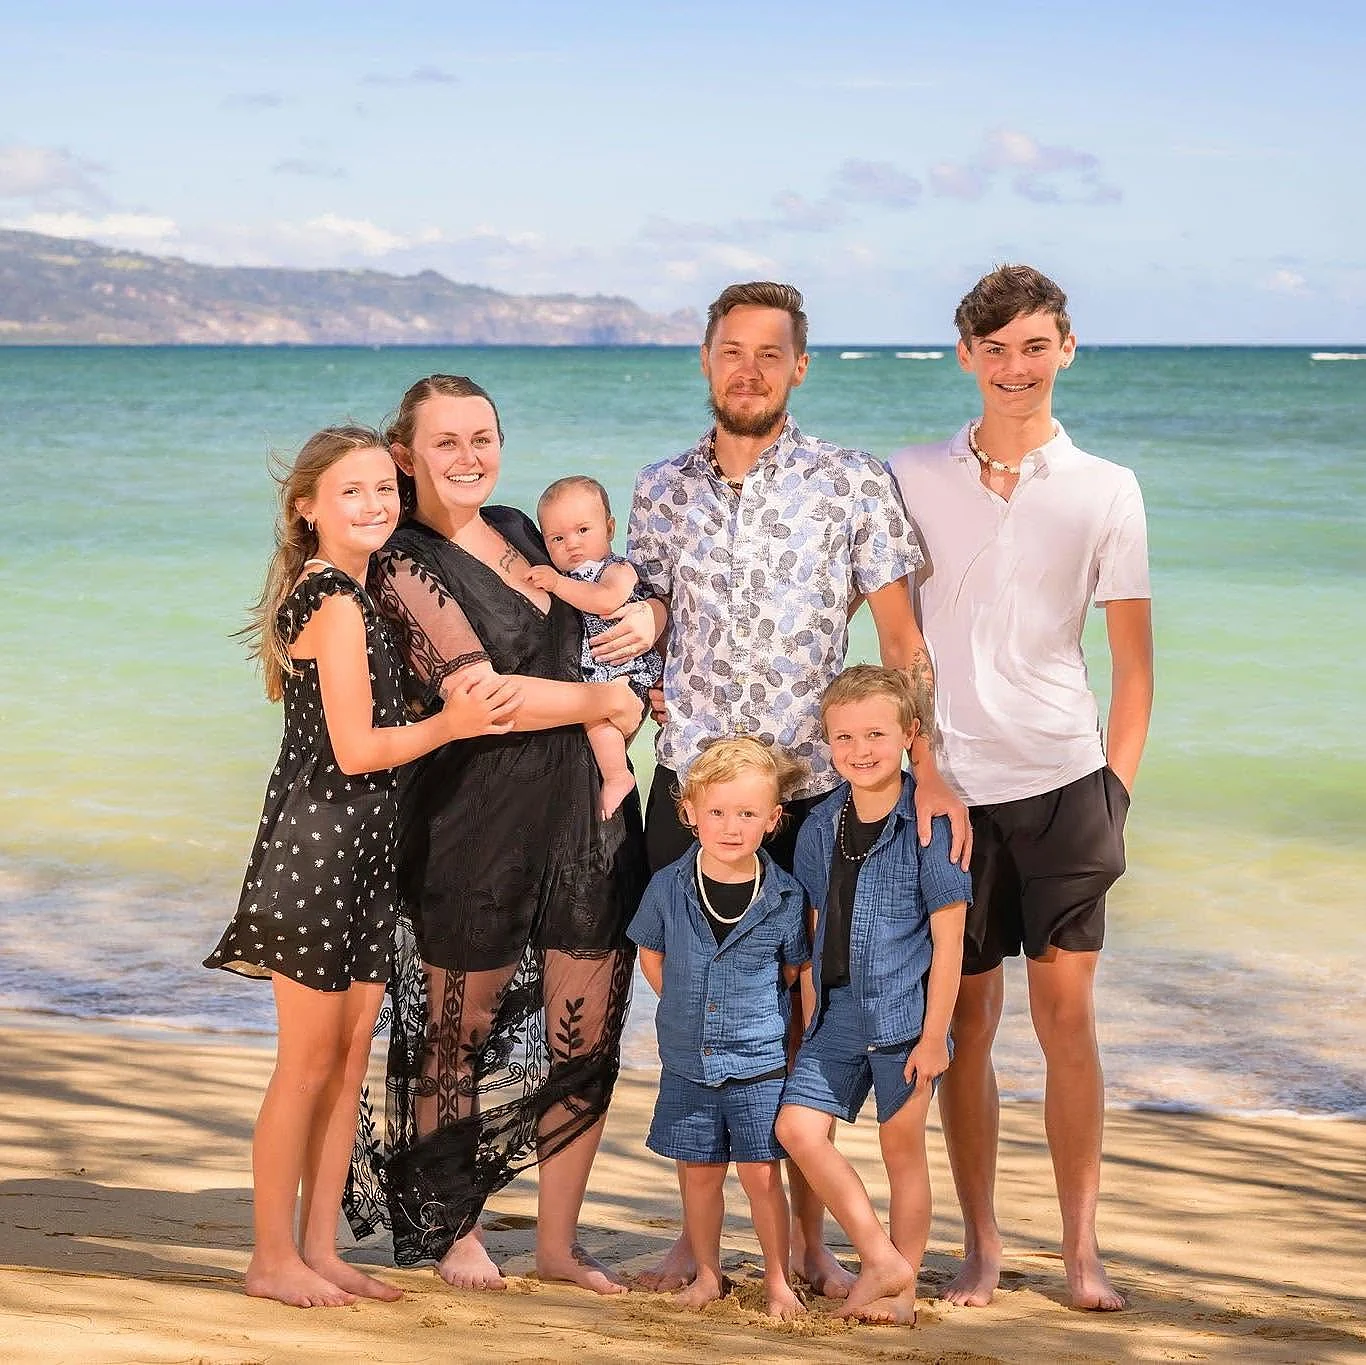
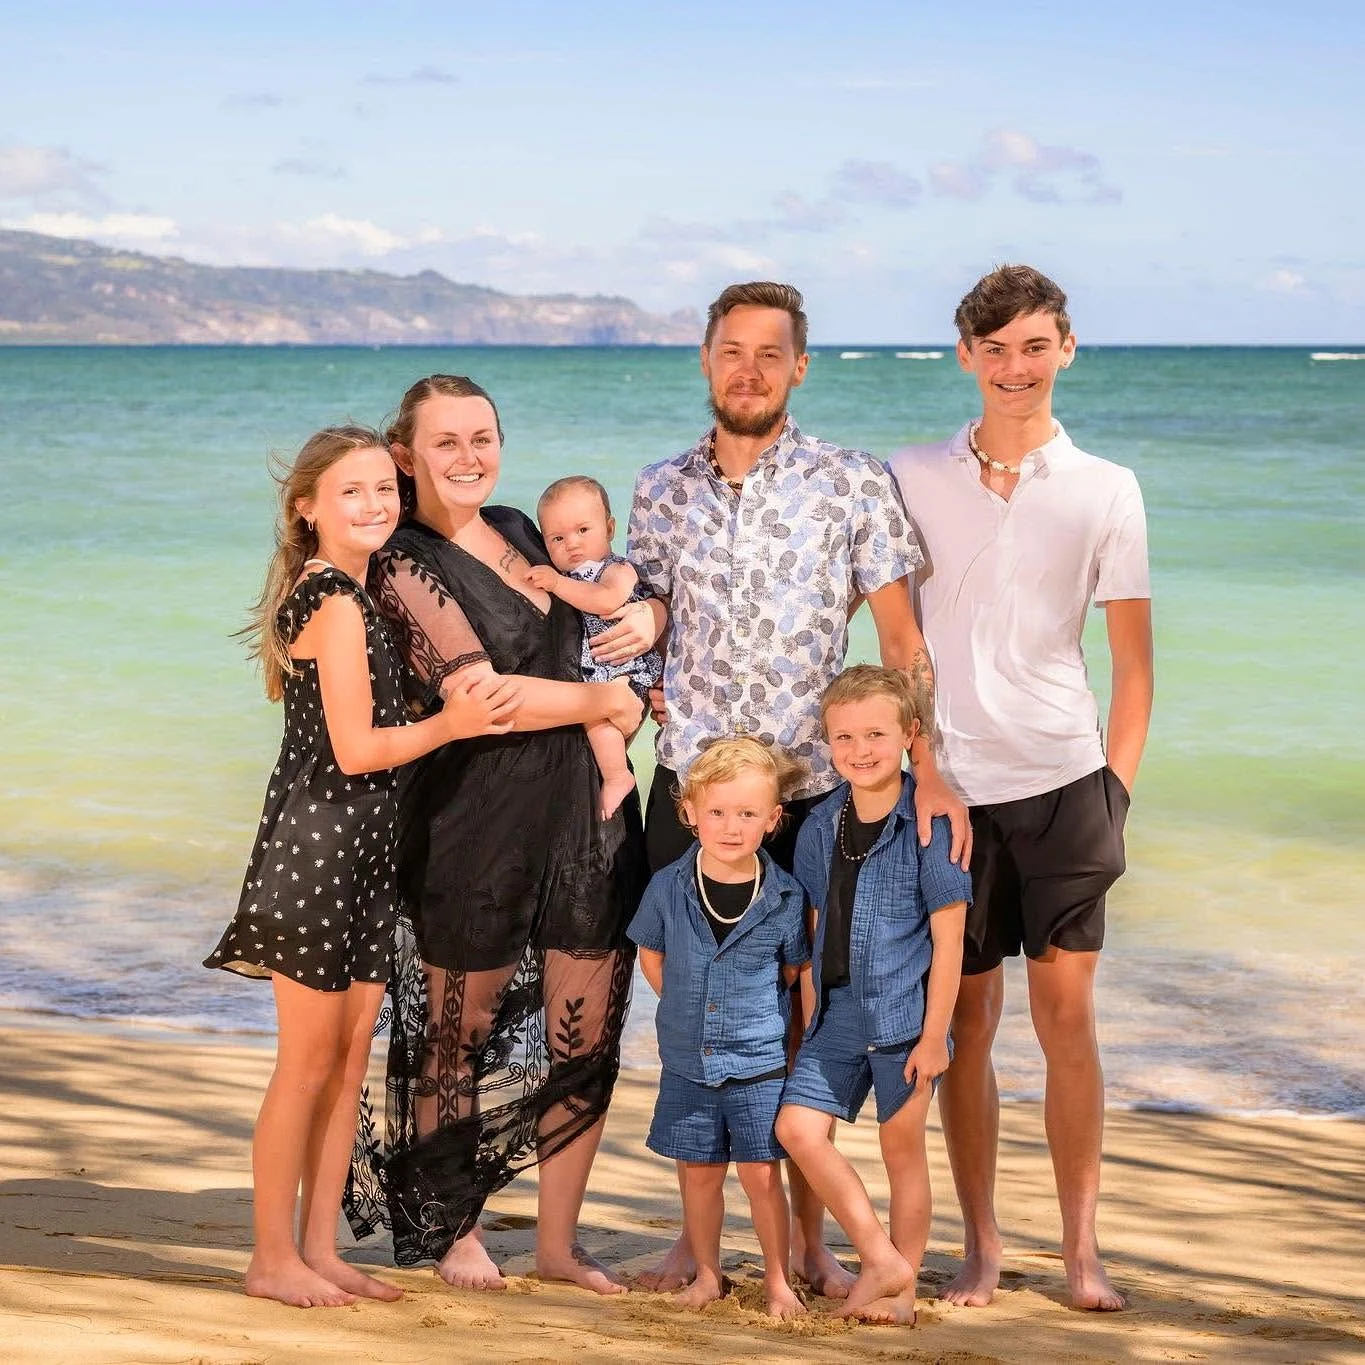
Refresh About family photos to sharp Phase 12 WebPs.
Use the 2560×1920 Perkins pumpkin-patch primary, beach portrait, and
600px Nick crop from the processed store assets instead of the softer
earlier exports. Also land the EstimateCTA href onto /#request.

diff --git a/components/modals/EstimateCTA.tsx b/components/modals/EstimateCTA.tsx
@@ -16,7 +16,7 @@ interface EstimateCTAProps extends Omit<ButtonProps, "onClick" | "asChild"> {
  */
 export function EstimateCTA({ onExtraClick, children, ...props }: EstimateCTAProps) {
   const pathname = usePathname();
-  const href = pathname === "/" ? "/#calculator" : "/estimate";
+  const href = pathname === "/" ? "/#request" : "/estimate";
 
   return (
     <Button {...props} asChild>
